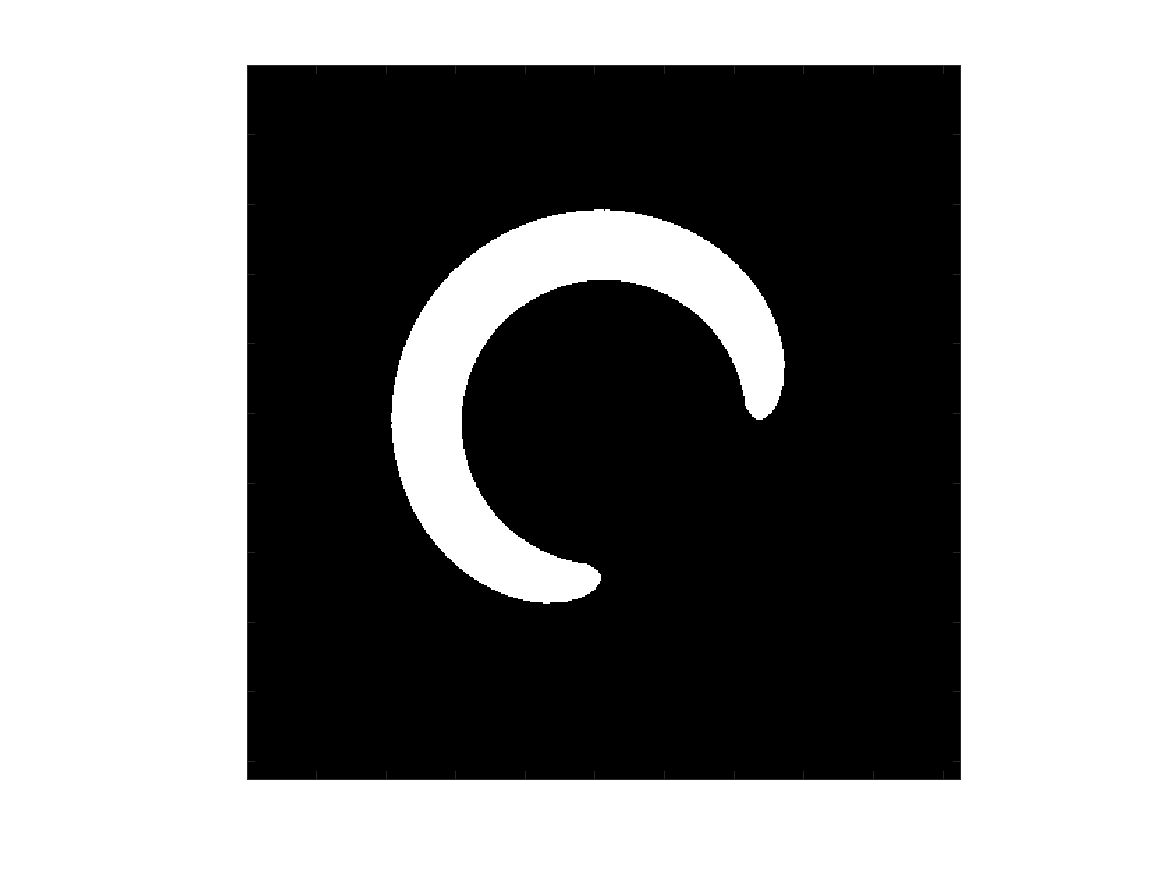
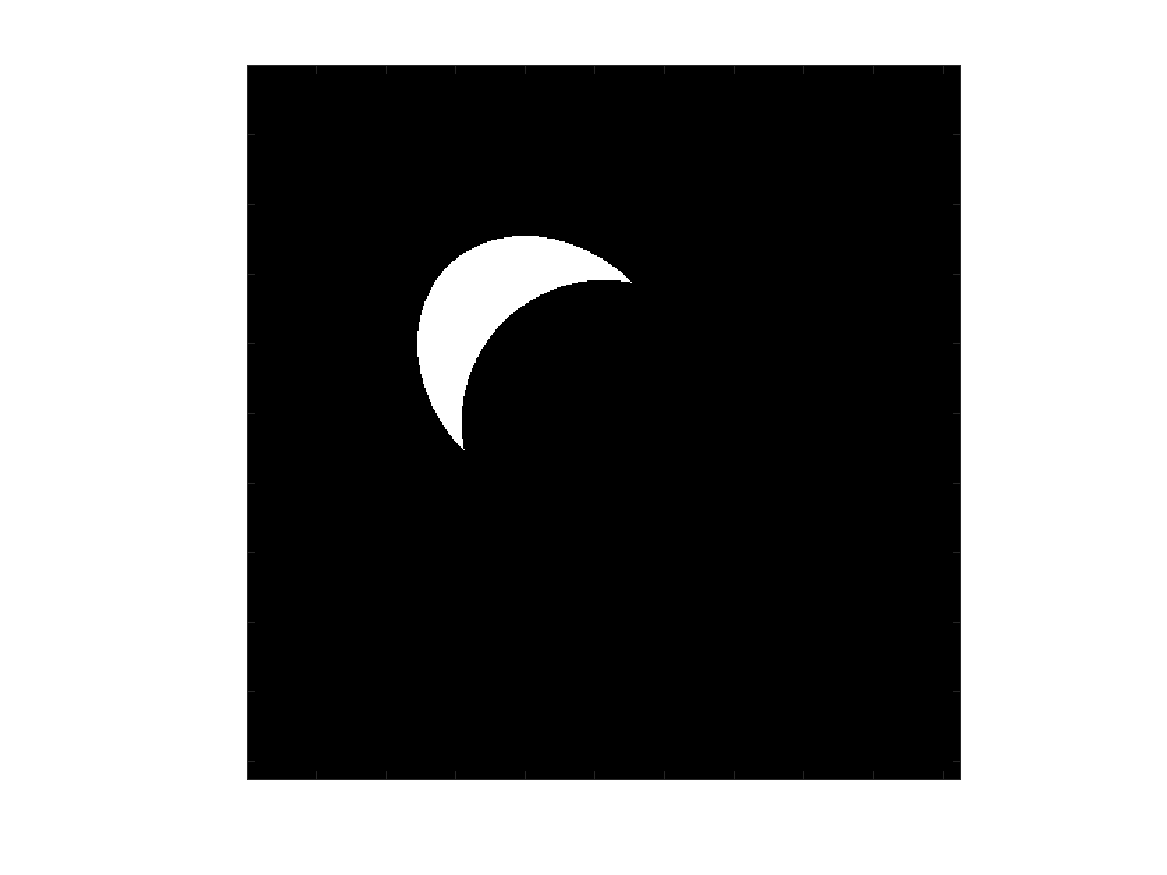
Codes updated. Separated slow and inc. Added new frames into frames folder.

Changed region(s): [[0.4319, 0.216, 0.6787, 0.4937], [0.3085, 0.3703, 0.5244, 0.7097], [0.3702, 0.2777, 0.401, 0.3394]]

diff --git a/matlab/src/wgfslow.cpp b/matlab/src/wgfslow.cpp
@@ -23,29 +23,15 @@ void create_dat_file(const double* A, int size, string filename, const int n, co
 
     cout << "filename_tmp : " << filename_tmp << "\n";
 
-    if(saveData == 1){
-        // save as csv files
-        ofstream out(filename_tmp);
-        if(!out) {
-            cout << "Cannot open file.";
-            return;
-        }
-        for(int i=0;i<size;++i){
-            out << A[i];
-            if(i<size-1) out << ",";
-        }
-        out.close();    
-    }else if(saveData == 2){
-        // save as bin files
-        ofstream out(filename_tmp, ios::out | ios::binary);
-        if(!out) {
-            cout << "Cannot open file.";
-            return;
-        }
-
-        out.write((char *) A, size*sizeof(double));
-        out.close();
+    // save as bin files
+    ofstream out(filename_tmp, ios::out | ios::binary);
+    if(!out) {
+        cout << "Cannot open file.";
+        return;
     }
+
+    out.write((char *) A, size*sizeof(double));
+    out.close();
     
 }
 
@@ -56,15 +42,9 @@ bool compare_char_string(const char c[], const string& s){
     return true;
 }
 
-void check_saveData_input(int& saveData, string& filename, char input_char[], const mxArray *prhs[], int charSize, int idx){
-    if(compare_char_string(input_char,"csv")){
-        saveData = 1;
-    }else if(compare_char_string(input_char,"bin")){
-        saveData = 2;
-    }else if(compare_char_string(input_char,"0")){
-        saveData = 0;
-    }else{
-        mexErrMsgTxt("wrong input for saveData.\nsaveData should be one of the following: 'csv', 'bin', '0'");
+void check_saveData_input(int saveData, string& filename, char* input_char, const mxArray *prhs[], int charSize, int idx){
+    if(saveData != 0 && saveData != 1){
+        mexErrMsgTxt("wrong input for saveData.\nsaveData should be one of the following: 1: save the data, 0: don't save the data");
     }
 
     if(saveData != 0) mxGetString(prhs[idx], input_char, charSize);
@@ -72,6 +52,7 @@ void check_saveData_input(int& saveData, string& filename, char input_char[], co
     filename = input_char;
     // filename = "./data/" + filename;
 }
+
 
 void mexFunction( int nlhs, mxArray *plhs[],
                  int nrhs, const mxArray *prhs[]){
@@ -83,18 +64,24 @@ void mexFunction( int nlhs, mxArray *plhs[],
     double tolerance = (double) mxGetScalar(prhs[4]);
     int nt           = (int) mxGetScalar(prhs[5]);
     double tau       = (double) mxGetScalar(prhs[6]);
-    int    verbose    = 0;
-    int    saveData   = 0;
+
     int    charSize   = 100;
     char*  input_char = new char[charSize];
     string filename   = "";
 
-    verbose = (int)    mxGetScalar(prhs[7]);
-    mxGetString(prhs[8], input_char, charSize);
-    check_saveData_input(saveData, filename, input_char, prhs, charSize, 9); 
+    double m = 0;
+    double gamma      = 0;
+    int    verbose    = 0;
 
-    double C_tr = 1.0; // The constant for the trace theorem (can be modified based on the given data).
-    
+    m = (double) mxGetScalar(prhs[7]);
+
+    assert( m > 1 );
+
+    gamma   = (double) mxGetScalar(prhs[8]);
+    verbose = (int)    mxGetScalar(prhs[9]);
+    int saveData = (int) mxGetScalar(prhs[10]);
+    check_saveData_input(saveData, filename, input_char, prhs, charSize, 11);
+
     int n1=mxGetM(prhs[0]);
     int n2=mxGetN(prhs[0]);
     
@@ -115,18 +102,27 @@ void mexFunction( int nlhs, mxArray *plhs[],
     }
 
     if(verbose > 0){
-        cout << "XXX Incompressible Flow XXX\n\n";
+        cout << "XXX Slow Diffusion XXX\n\n";    
+        
         cout << "n    : " << n1 <<"\n";
         cout << "nt   : " << nt <<"\n";
         cout << "tau  : " << tau << "\n";
+
+        cout << "m    : " << m << "\n";
+        cout << "gamma: " << gamma << "\n";    
+
         cout << "Max Iteration : " << max_iteration <<"\n";
         cout << "Tolerance     : " << tolerance <<"\n";
     }
 
+    BackAndForth* bf  = nullptr;
+    Helper_U* helper_f= nullptr;
+
     // Initialize the Back-and-Forth method
-    BackAndForthIncompressible* bf       = new BackAndForthIncompressible(n1,n2,max_iteration,tolerance,tau); // incompressible
+    bf       = new BackAndForthSlow(n1,n2,max_iteration,tolerance,gamma,tau,m);
     // Initialize the internal energy functional U
-    Helper_U_incompressible*    helper_f = new Helper_U_incompressible(n1,n2,tau,mu);    
+    helper_f = new Helper_U_slow(n1,n2,gamma,tau,m,mu);     
+    
     // Set a potential V
     helper_f->set_V(V);
     // Set an obstacle
@@ -148,4 +144,6 @@ void mexFunction( int nlhs, mxArray *plhs[],
 
     time=clock()-time;
     if(verbose>0) printf ("\nCPU time for GF: %f seconds.\n\n",((float)time)/CLOCKS_PER_SEC);
+
+    delete[] input_char;
 }

diff --git a/matlab/src/wgfinc.cpp b/matlab/src/wgfinc.cpp
@@ -23,30 +23,15 @@ void create_dat_file(const double* A, int size, string filename, const int n, co
 
     cout << "filename_tmp : " << filename_tmp << "\n";
 
-    if(saveData == 1){
-        // save as csv files
-        ofstream out(filename_tmp);
-        if(!out) {
-            cout << "Cannot open file.";
-            return;
-        }
-        for(int i=0;i<size;++i){
-            out << A[i];
-            if(i<size-1) out << ",";
-        }
-        out.close();    
-    }else if(saveData == 2){
-        // save as bin files
-        ofstream out(filename_tmp, ios::out | ios::binary);
-        if(!out) {
-            cout << "Cannot open file.";
-            return;
-        }
-
-        out.write((char *) A, size*sizeof(double));
-        out.close();
+    // save as bin files
+    ofstream out(filename_tmp, ios::out | ios::binary);
+    if(!out) {
+        cout << "Cannot open file.";
+        return;
     }
-    
+
+    out.write((char *) A, size*sizeof(double));
+    out.close();
 }
 
 bool compare_char_string(const char c[], const string& s){
@@ -56,15 +41,9 @@ bool compare_char_string(const char c[], const string& s){
     return true;
 }
 
-void check_saveData_input(int& saveData, string& filename, char input_char[], const mxArray *prhs[], int charSize, int idx){
-    if(compare_char_string(input_char,"csv")){
-        saveData = 1;
-    }else if(compare_char_string(input_char,"bin")){
-        saveData = 2;
-    }else if(compare_char_string(input_char,"0")){
-        saveData = 0;
-    }else{
-        mexErrMsgTxt("wrong input for saveData.\nsaveData should be one of the following: 'csv', 'bin', '0'");
+void check_saveData_input(int saveData, string& filename, char* input_char, const mxArray *prhs[], int charSize, int idx){
+    if(saveData != 0 && saveData != 1){
+        mexErrMsgTxt("wrong input for saveData.\nsaveData should be one of the following: 1: save the data, 0: don't save the data");
     }
 
     if(saveData != 0) mxGetString(prhs[idx], input_char, charSize);
@@ -83,24 +62,19 @@ void mexFunction( int nlhs, mxArray *plhs[],
     double tolerance = (double) mxGetScalar(prhs[4]);
     int nt           = (int) mxGetScalar(prhs[5]);
     double tau       = (double) mxGetScalar(prhs[6]);
-    double m         = (double) mxGetScalar(prhs[7]);
 
-    assert((m>1));
-
-    double gamma      = 0;
-    int    verbose    = 0;
-    int    saveData   = 0;
     int    charSize   = 100;
     char*  input_char = new char[charSize];
     string filename   = "";
 
-    gamma   = (double) mxGetScalar(prhs[8]);
-    verbose = (int)    mxGetScalar(prhs[9]);
-    mxGetString(prhs[10], input_char, charSize);
-    check_saveData_input(saveData, filename, input_char, prhs, charSize, 11);
+    double m = 0;
+    double gamma      = 0;
+    int    verbose    = 0;
 
-    double C_tr = 1.0; // The constant for the trace theorem (can be modified based on the given data).
-    
+    verbose = (int) mxGetScalar(prhs[7]);
+    int saveData = (int) mxGetScalar(prhs[8]);
+    check_saveData_input(saveData, filename, input_char, prhs, charSize, 9); 
+
     int n1=mxGetM(prhs[0]);
     int n2=mxGetN(prhs[0]);
     
@@ -121,20 +95,24 @@ void mexFunction( int nlhs, mxArray *plhs[],
     }
 
     if(verbose > 0){
-        cout << "XXX Slow Diffusion XXX\n\n";
+        cout << "XXX Incompressible Flow XXX\n\n";
+        
         cout << "n    : " << n1 <<"\n";
         cout << "nt   : " << nt <<"\n";
         cout << "tau  : " << tau << "\n";
-        cout << "m    : " << m << "\n";
-        cout << "gamma: " << gamma << "\n";
+
         cout << "Max Iteration : " << max_iteration <<"\n";
         cout << "Tolerance     : " << tolerance <<"\n";
     }
 
+    BackAndForth* bf  = nullptr;
+    Helper_U* helper_f= nullptr;
+
     // Initialize the Back-and-Forth method
-    BackAndForthSlow* bf       = new BackAndForthSlow(n1,n2,max_iteration,tolerance,gamma,tau,m); // slow diffusion
+    bf       = new BackAndForthIncompressible(n1,n2,max_iteration,tolerance,tau);
     // Initialize the internal energy functional U
-    Helper_U_slow*    helper_f = new Helper_U_slow(n1,n2,gamma,tau,m,mu);
+    helper_f = new Helper_U_incompressible(n1,n2,tau,mu);   
+
     // Set a potential V
     helper_f->set_V(V);
     // Set an obstacle
@@ -156,4 +134,6 @@ void mexFunction( int nlhs, mxArray *plhs[],
 
     time=clock()-time;
     if(verbose>0) printf ("\nCPU time for GF: %f seconds.\n\n",((float)time)/CLOCKS_PER_SEC);
+
+    delete[] input_char;
 }

diff --git a/matlab/example_incompressible.m b/matlab/example_incompressible.m
@@ -2,12 +2,10 @@
 
 % Parameters
 n = 512;         % The size of the grid
-maxIters = 500;  % Maximum iterations for the Back-and-Forth method
+maxIters = 1000;  % Maximum iterations for the Back-and-Forth method
 TOL = 1e-3;      % Tolerance for the Back-and-Forth method
 nt  = 40;        % The number of outer iterations
-tau = 0.005;     % Time step for JKO scheme
-m   = 4;         % m of internal energy
-gamma = 0.01;    % gamma of internal energy
+tau = 0.002;     % Time step for JKO scheme
 verbose  = 1;    % print out logs 
 saveData = 1;    % Save the csv data in figures folder
 filename = 'mu';     % Set the filename
@@ -19,7 +17,7 @@ filename = 'mu';     % Set the filename
 mu = zeros(n);
 idx = (x-0.25).^2 + (y-0.25).^2 < 0.1^2;
 mu(idx) = 1;
-mu = mu / sum(mu(:)) * n*n;
+% mu = mu / sum(mu(:)) * n*n;
 
 % Define a quadratic potential
 V = 5 * ((x-0.9).^2 + (y-0.9).^2);
@@ -30,7 +28,8 @@ idx = (x-0.5).^2 + (y-0.5).^2 < 0.2^2;
 obstacle(idx) = 1;
 
 % Run BFM!
-result = wgfslow(mu, V, obstacle, maxIters, TOL, nt, tau, m, gamma, verbose, saveData, filename);
+% result = wgfslow(mu, V, obstacle, maxIters, TOL, nt, tau, m, gamma, verbose, saveData, filename);
+result = wgfinc(mu, V, obstacle, maxIters, TOL, nt, tau, verbose, saveData, filename);
 
 
 %% Plot

diff --git a/matlab/src/BFMIncomp.h b/matlab/src/BFMIncomp.h
@@ -140,12 +140,12 @@ public:
         }
 
         // return infgradphi;
-        return fmax(0.5,sqrt(infgradphi));
+        return fmax(0.1,sqrt(infgradphi));
     }
 
 
     void set_coeff(double& c1, double& c2, const double C, const double mu_max, const double d1, const double d2, const bool verbose, const double C_tr){
-        c1 = 2*C * d1;
+        c1 = 10 * C * d1;
         c2 = C * d1 + C_tr * tau_;
     } 
 
@@ -155,11 +155,11 @@ public:
             else          push_mu_[i] = -LARGE_VALUE;
         }
 
-        flt2d_->find_c_concave(push_mu_, push_mu_, 1);
+        flt2d_->find_c_concave(push_mu_, push_mu_, 0.5);
 
         for(int i=0;i<n1*n2;++i){
             phi_[i] = - mu[i] - helper_f->V_[i];
-            phi_[i] +=  pow(push_mu_[i],0.25);
+            phi_[i] +=  pow(push_mu_[i],0.5);
         }
     }
 
@@ -206,7 +206,7 @@ public:
         C_phi_ = 1;
         C_psi_ = 1;
 
-        initialize_phi(helper_f,mu); // intiailize phi in the first outer iteration
+        if(outer_iter == 0) initialize_phi(helper_f,mu); // intiailize phi in the first outer iteration
 
         double solution_error = 1;
 

diff --git a/README.md b/README.md
@@ -1,7 +1,7 @@
 # The Back-And-Forth Method (BFM) for Wasserstein Gradient Flows Codes
 
-Matlab code for The Back-And-Forth Method (BFM) for Wasserstein Gradient Flows by [Matt Jacobs](https://www.math.ucla.edu/~majaco/), [Wonjun Lee](https://www.math.ucla.edu/~wlee/), [Flavien Léger](https://flavienleger.github.io).
+MATLAB C++ wrapper for The Back-And-Forth Method (BFM) for Wasserstein Gradient Flows by [Matt Jacobs](https://www.math.ucla.edu/~majaco/), [Wonjun Lee](https://www.math.ucla.edu/~wlee/), [Flavien Léger](https://flavienleger.github.io).
 
-Check the project website here: https://wonjunee.github.io/wgfBFM/#.
+Check the project website here: https://wasserstein-gradient-flows.netlify.app 
 
 The url to the paper: https://arxiv.org/pdf/2011.08151.pdf.
